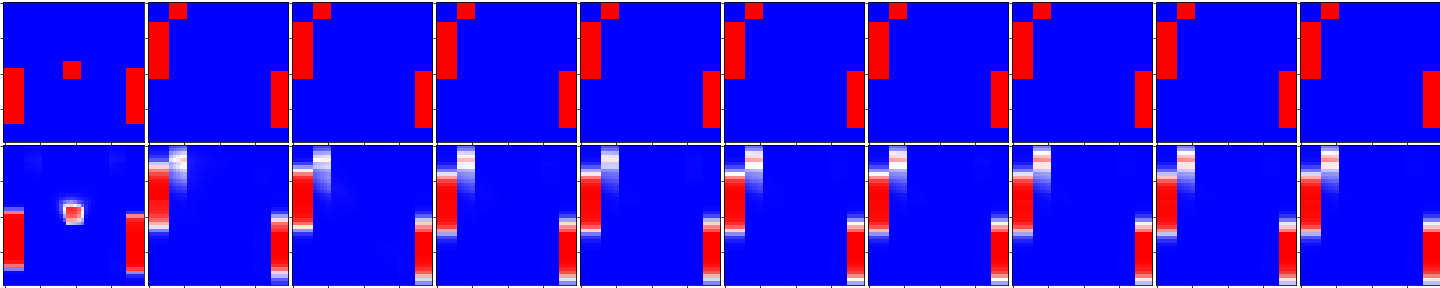
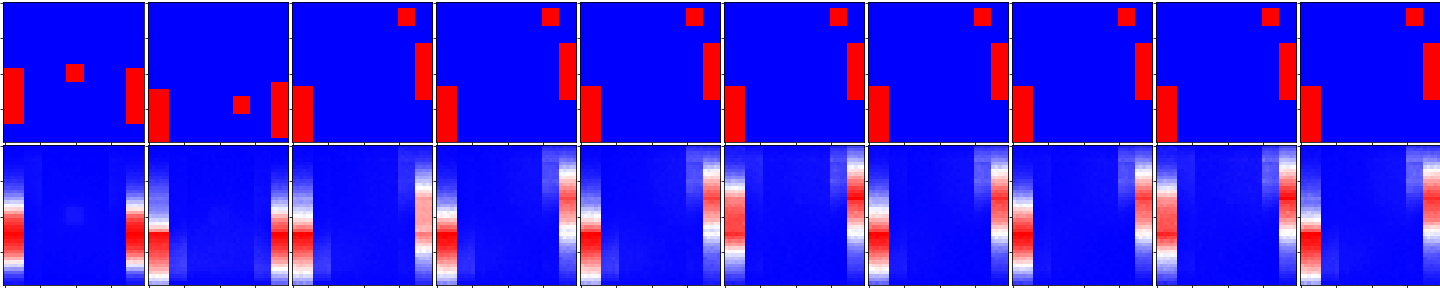
Add batch norm

diff --git a/utils/model.py b/utils/model.py
@@ -4,7 +4,7 @@ import datetime
 
 
 class Model:
-    def __init__(self, internal_size, W, H):
+    def __init__(self, internal_size, W, H, lr, weight_decay):
         self.W = W
         self.H = H
         self.internal_size = internal_size
@@ -24,10 +24,10 @@ class Model:
 
         self.net = tf.keras.Model([game_init, user_input], frame)
 
-        initial_learning_rate = 0.005
+        initial_learning_rate = lr
 
         self.optimizer = tfa.optimizers.AdamW(
-            learning_rate=initial_learning_rate, weight_decay=1e-4)
+            learning_rate=initial_learning_rate, weight_decay=weight_decay)
 
         self.net.compile(loss='binary_crossentropy',
                          optimizer=self.optimizer,
@@ -46,13 +46,19 @@ class Model:
                                        name='gru',
                                        activation='tanh')
 
+        self.bn = tf.keras.layers.BatchNormalization()
+
         self.gru2 = tf.keras.layers.GRU(self.internal_size,
                                         return_sequences=True,
                                         name='gru2',
                                         activation='tanh')
 
+        self.bn2 = tf.keras.layers.BatchNormalization()
+
         x = self.gru(user_input, initial_state=initial_state)
+        x = self.bn(x)
         x = self.gru2(x)
+        x = self.bn2(x)
 
         return x
 
